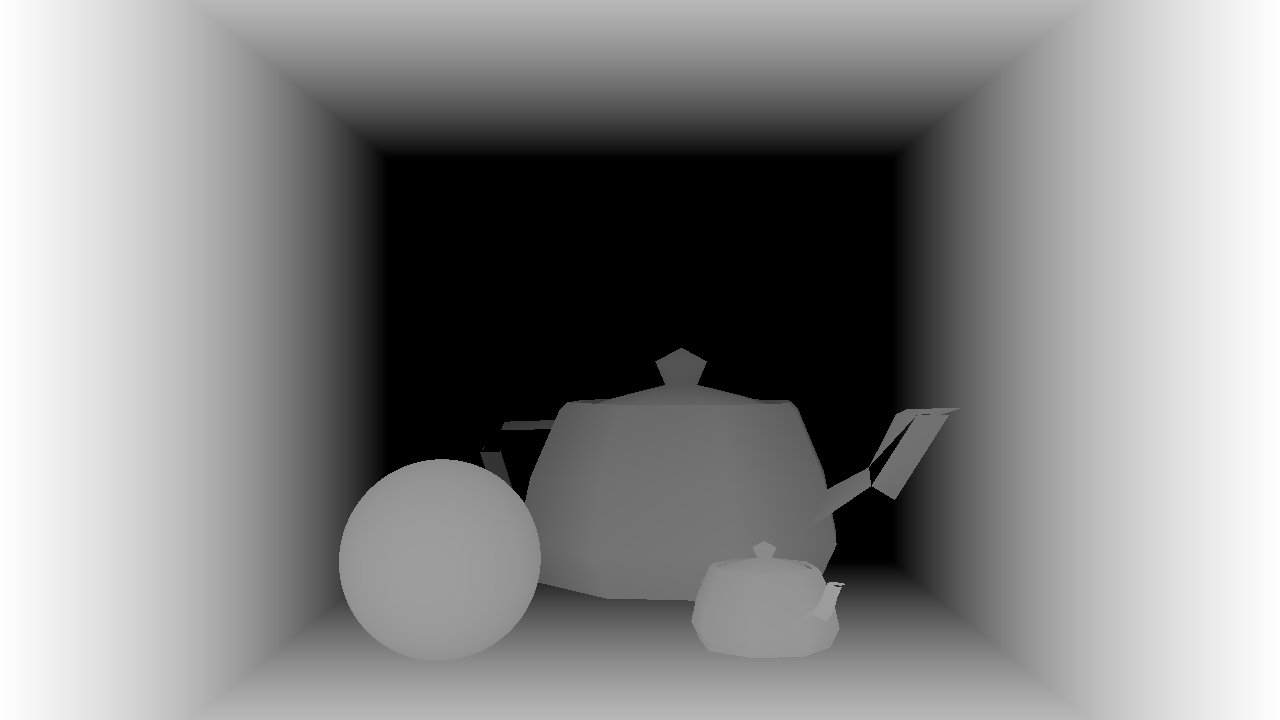
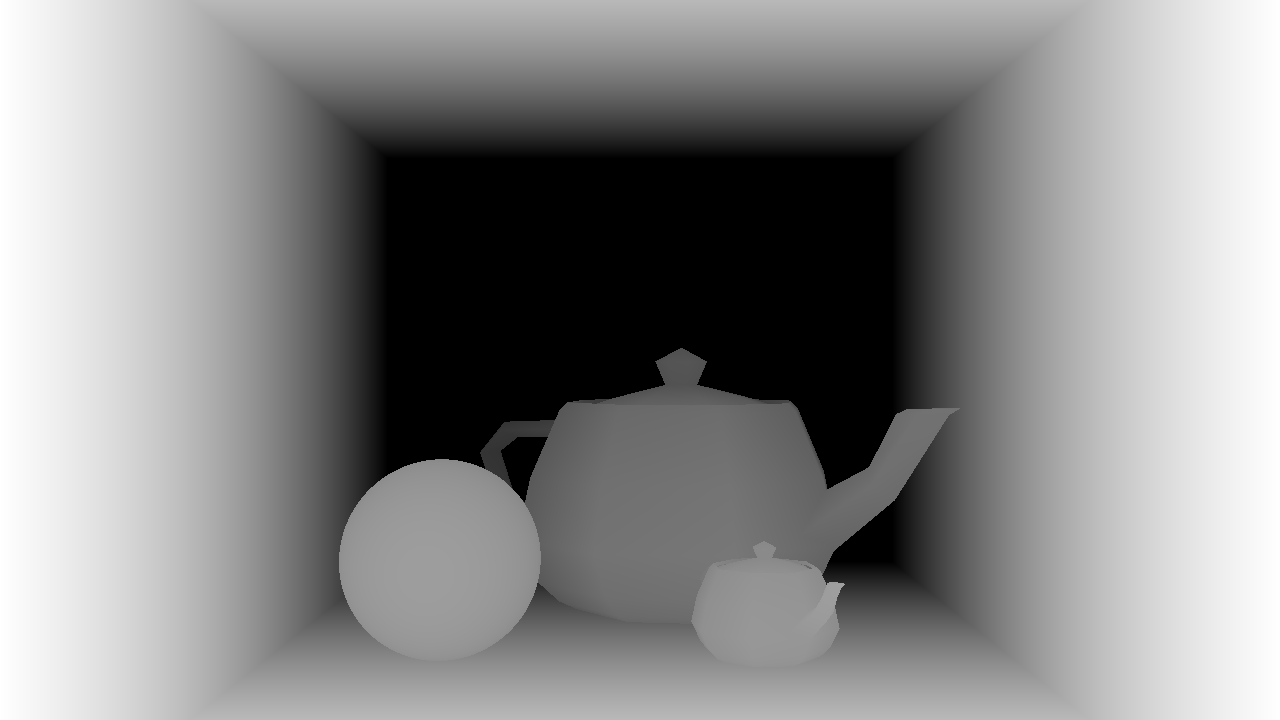
Started benchmarking

diff --git a/src/xmlload.cpp b/src/xmlload.cpp
@@ -156,14 +156,14 @@ void LoadNode( Node &parent, XMLElement *element, int level, ObjFileList &objLis
     char const *name = element->Attribute("name");
     node->SetName(name);
     PrintIndent(level);
-    printf("object [");
-    if ( name ) printf("%s",name);
-    printf("]");
+    //printf("object [");
+    //if ( name ) printf("%s",name);
+    //printf("]");
  
     // material
     char const *mtlName = element->Attribute("material");
     if ( mtlName ) {
-        printf(" <%s>", mtlName);
+        //printf(" <%s>", mtlName);
         node->SetMaterial( (Material*)mtlName ); // temporarily set the material pointer to a string of the material name
     }
  
@@ -172,17 +172,17 @@ void LoadNode( Node &parent, XMLElement *element, int level, ObjFileList &objLis
     if ( type ) {
         if ( StrICmp(type,"sphere") ) {
             node->SetNodeObj( &theSphere );
-            printf(" - Sphere");
+            //printf(" - Sphere");
         } else if ( StrICmp(type,"plane") ) {
             node->SetNodeObj( &thePlane );
-            printf(" - Plane");
+            //printf(" - Plane");
         } else if ( StrICmp(type,"obj") ) {
-            printf(" - OBJ");
+            //printf(" - OBJ");
             Object *obj = objList.Find(name);
             if ( obj == nullptr ) { // object is not on the list, so we should load it now
                 TriObj *tobj = new TriObj;
                 if ( ! tobj->Load( name ) ) {
-                    printf(" -- ERROR: Cannot load file \"%s.\"", name);
+                    //printf(" -- ERROR: Cannot load file \"%s.\"", name);
                     delete tobj;
                 } else {
                     objList.Append(tobj,name);  // add to the list
@@ -191,12 +191,12 @@ void LoadNode( Node &parent, XMLElement *element, int level, ObjFileList &objLis
             }
             node->SetNodeObj( obj );
         } else {
-            printf(" - UNKNOWN TYPE");
+            //printf(" - UNKNOWN TYPE");
         }
     }
  
  
-    printf("\n");
+    //printf("\n");
  
  
     for ( XMLElement *child = element->FirstChildElement(); child!=nullptr; child = child->NextSiblingElement() ) {
@@ -218,7 +218,7 @@ void LoadTransform( Transformation &trans, XMLElement *element, int level )
             ReadVector( child, s );
             trans.Scale(s.x,s.y,s.z);
             PrintIndent(level);
-            printf("   scale %f %f %f\n",s.x,s.y,s.z);
+            //printf("   scale %f %f %f\n",s.x,s.y,s.z);
         } else if ( StrICmp( child->Value(), "rotate" ) ) {
             Vec3f s(0,0,0);
             ReadVector( child, s );
@@ -227,13 +227,13 @@ void LoadTransform( Transformation &trans, XMLElement *element, int level )
             ReadFloat(child,a,"angle");
             trans.Rotate(s,a);
             PrintIndent(level);
-            printf("   rotate %f degrees around %f %f %f\n", a, s.x, s.y, s.z);
+            //printf("   rotate %f degrees around %f %f %f\n", a, s.x, s.y, s.z);
         } else if ( StrICmp( child->Value(), "translate" ) ) {
             Vec3f t(0,0,0);
             ReadVector(child,t);
             trans.Translate(t);
             PrintIndent(level);
-            printf("   translate %f %f %f\n",t.x,t.y,t.z);
+            //printf("   translate %f %f %f\n",t.x,t.y,t.z);
         }
     }
 }
@@ -246,9 +246,9 @@ void LoadMaterial( MaterialList &materials, XMLElement *element )
  
     // name
     char const *name = element->Attribute("name");
-    printf("Material [");
-    if ( name ) printf("%s",name);
-    printf("]");
+    //printf("Material [");
+    //if ( name ) printf("%s",name);
+    //printf("]");
  
     auto loadPhongBlinn = [&element]( MtlBasePhongBlinn *m )
     {
@@ -258,29 +258,29 @@ void LoadMaterial( MaterialList &materials, XMLElement *element )
             if ( StrICmp( child->Value(), "diffuse" ) ) {
                 ReadColor( child, c );
                 m->SetDiffuse(c);
-                printf("   diffuse %f %f %f\n",c.r,c.g,c.b);
+                //printf("   diffuse %f %f %f\n",c.r,c.g,c.b);
             } else if ( StrICmp( child->Value(), "specular" ) ) {
                 ReadColor( child, c );
                 m->SetSpecular(c);
-                printf("   specular %f %f %f\n",c.r,c.g,c.b);
+                //printf("   specular %f %f %f\n",c.r,c.g,c.b);
             } else if ( StrICmp( child->Value(), "glossiness" ) ) {
                 ReadFloat( child, f );
                 m->SetGlossiness(f);
-                printf("   glossiness %f\n",f);
+                //printf("   glossiness %f\n",f);
             } else if ( StrICmp( child->Value(), "reflection" ) ) {
                 ReadColor( child, c );
                 m->SetReflection(c);
-                printf("   reflection %f %f %f\n",c.r,c.g,c.b);
+                //printf("   reflection %f %f %f\n",c.r,c.g,c.b);
             } else if ( StrICmp( child->Value(), "refraction" ) ) {
                 ReadColor( child, c );
                 m->SetRefraction(c);
                 ReadFloat( child, f, "index" );
                 m->SetIOR(f);
-                printf("   refraction %f %f %f (ior: %f)\n",c.r,c.g,c.b,f);
+                //printf("   refraction %f %f %f (ior: %f)\n",c.r,c.g,c.b,f);
             } else if ( StrICmp( child->Value(), "absorption" ) ) {
                 ReadColor( child, c );
                 m->SetAbsorption(c);
-                printf("   absorption %f %f %f\n",c.r,c.g,c.b);
+                //printf("   absorption %f %f %f\n",c.r,c.g,c.b);
             }
         }
         return m;
@@ -293,10 +293,10 @@ void LoadMaterial( MaterialList &materials, XMLElement *element )
         //    printf(" - Phong\n");
         //    mtl = loadPhongBlinn( new MtlPhong() ); }
         if ( StrICmp(type,"blinn") ) {
-            printf(" - Blinn\n");
+            //printf(" - Blinn\n");
             mtl = loadPhongBlinn( new MtlBlinn() );
         } else if ( StrICmp(type,"microfacet") ) {
-            printf(" - Microfacet\n");
+            //printf(" - Microfacet\n");
             MtlMicrofacet *m = new MtlMicrofacet();
             mtl = m;
             for ( XMLElement *child = element->FirstChildElement(); child!=nullptr; child = child->NextSiblingElement() ) {
@@ -305,31 +305,31 @@ void LoadMaterial( MaterialList &materials, XMLElement *element )
                 if ( StrICmp( child->Value(), "color" ) ) {
                     ReadColor( child, c );
                     m->SetBaseColor(c);
-                    printf("   color %f %f %f\n",c.r,c.g,c.b);
+                    //printf("   color %f %f %f\n",c.r,c.g,c.b);
                 } else if ( StrICmp( child->Value(), "roughness" ) ) {
                     ReadFloat( child, f );
                     m->SetRoughness(f);
-                    printf("   roughness %f\n",f);
+                    //printf("   roughness %f\n",f);
                 } else if ( StrICmp( child->Value(), "metallic" ) ) {
                     ReadFloat( child, f );
                     m->SetMetallic(f);
-                    printf("   metallic %f\n",f);
+                    //printf("   metallic %f\n",f);
                 } else if ( StrICmp( child->Value(), "ior" ) ) {
                     ReadFloat( child, f );
                     m->SetIOR(f);
-                    printf("   ior %f\n",f);
+                    //printf("   ior %f\n",f);
                 } else if ( StrICmp( child->Value(), "transmittance" ) ) {
                     ReadColor( child, c );
                     m->SetTransmittance(c);
-                    printf("   transmittance %f %f %f\n",c.r,c.g,c.b);
+                    //printf("   transmittance %f %f %f\n",c.r,c.g,c.b);
                 } else if ( StrICmp( child->Value(), "absorption" ) ) {
                     ReadColor( child, c );
                     m->SetAbsorption(c);
-                    printf("   absorption %f %f %f\n",c.r,c.g,c.b);
+                    //printf("   absorption %f %f %f\n",c.r,c.g,c.b);
                 }
             }
         } else {
-            printf(" - UNKNOWN\n");
+            //printf(" - UNKNOWN\n");
         }
     }
  
@@ -347,15 +347,15 @@ void LoadLight( LightList &lights, XMLElement *element )
  
     // name
     char const *name = element->Attribute("name");
-    printf("Light [");
-    if ( name ) printf("%s",name);
-    printf("]");
+    //printf("Light [");
+    //if ( name ) printf("%s",name);
+    //printf("]");
  
     // type
     char const *type = element->Attribute("type");
     if ( type ) {
         if ( StrICmp(type,"ambient") ) {
-            printf(" - Ambient\n");
+            //printf(" - Ambient\n");
             AmbientLight *l = new AmbientLight();
             light = l;
             for ( XMLElement *child = element->FirstChildElement(); child!=nullptr; child = child->NextSiblingElement() ) {
@@ -363,11 +363,11 @@ void LoadLight( LightList &lights, XMLElement *element )
                     Color c(1,1,1);
                     ReadColor( child, c );
                     l->SetIntensity(c);
-                    printf("   intensity %f %f %f\n",c.r,c.g,c.b);
+                    //printf("   intensity %f %f %f\n",c.r,c.g,c.b);
                 }
             }
         } else if ( StrICmp(type,"direct") ) {
-            printf(" - Direct\n");
+            //printf(" - Direct\n");
             DirectLight *l = new DirectLight();
             light = l;
             for ( XMLElement *child = element->FirstChildElement(); child!=nullptr; child = child->NextSiblingElement() ) {
@@ -375,16 +375,16 @@ void LoadLight( LightList &lights, XMLElement *element )
                     Color c(1,1,1);
                     ReadColor( child, c );
                     l->SetIntensity(c);
-                    printf("   intensity %f %f %f\n",c.r,c.g,c.b);
+                    //printf("   intensity %f %f %f\n",c.r,c.g,c.b);
                 } else if ( StrICmp( child->Value(), "direction" ) ) {
                     Vec3f v(1,1,1);
                     ReadVector( child, v );
                     l->SetDirection(v);
-                    printf("   direction %f %f %f\n",v.x,v.y,v.z);
+                    //printf("   direction %f %f %f\n",v.x,v.y,v.z);
                 }
             }
         } else if ( StrICmp(type,"point") ) {
-            printf(" - Point\n");
+            //printf(" - Point\n");
             PointLight *l = new PointLight();
             light = l;
             for ( XMLElement *child = element->FirstChildElement(); child!=nullptr; child = child->NextSiblingElement() ) {
@@ -392,12 +392,12 @@ void LoadLight( LightList &lights, XMLElement *element )
                     Color c(1,1,1);
                     ReadColor( child, c );
                     l->SetIntensity(c);
-                    printf("   intensity %f %f %f\n",c.r,c.g,c.b);
+                    //printf("   intensity %f %f %f\n",c.r,c.g,c.b);
                 } else if ( StrICmp( child->Value(), "position" ) ) {
                     Vec3f v(0,0,0);
                     ReadVector( child, v );
                     l->SetPosition(v);
-                    printf("   position %f %f %f\n",v.x,v.y,v.z);
+                    //printf("   position %f %f %f\n",v.x,v.y,v.z);
                 }
             }
         } else {

diff --git a/src/TriObj.cpp b/src/TriObj.cpp
@@ -70,14 +70,18 @@ bool TriObj::IntersectRay(const Ray& localRay, HitInfo& hitInfo, int hitSide) co
             x_2d = Vec2f{ x.x, x.y };
         }
 
-        doubleArea0 = (v2_2d - v1_2d) ^ (x_2d - v1_2d);
-        if (doubleArea0 < 0.0f) continue;
-        doubleArea1 = (v0_2d - v2_2d) ^ (x_2d - v2_2d);
-        if (doubleArea1 < 0.0f) continue;
-        doubleArea2 = (v1_2d - v0_2d) ^ (x_2d - v0_2d);
-        if (doubleArea2 < 0.0f) continue;
-        doubleAreaTriangle = (v1_2d - v0_2d) ^ (v2_2d - v0_2d);
+        const float tempDoubleArea0{ (v2_2d - v1_2d) ^ (x_2d - v1_2d) };
+        const float tempDoubleArea1{ (v0_2d - v2_2d) ^ (x_2d - v2_2d) };
+        const float tempDoubleArea2{ (v1_2d - v0_2d) ^ (x_2d - v0_2d) };
+        
+        // Check if the signs are inconsistent. If so, the point is outside. This is because 2D projection can ruin winding order
+        if (!((tempDoubleArea0 >= 0 && tempDoubleArea1 >= 0 && tempDoubleArea2 >= 0) || (tempDoubleArea0 <= 0 && tempDoubleArea1 <= 0 && tempDoubleArea2 <= 0)))
+            continue;
 
+        doubleAreaTriangle = (v1_2d - v0_2d) ^ (v2_2d - v0_2d);
+        doubleArea0 = tempDoubleArea0;
+        doubleArea1 = tempDoubleArea1;
+        doubleArea2 = tempDoubleArea2;
         closestT = t;
         closestX = x;
         closestFaceID = i;
@@ -118,7 +122,7 @@ bool TriObj::IntersectShadowRay( Ray const &localRay, float t_max ) const
         const float h{ -v0 % normal };
 
         const float t{ -(localRay.p % normal + h) / (normal % localRay.dir) };
-        if (t < 0.0f && t < t_max) continue;
+        if (t < 0.0f || t > t_max) continue;
         const Vec3f x{ localRay.p + localRay.dir * t };
 
         const float normalXLen{ abs(normal.x) };
@@ -152,9 +156,13 @@ bool TriObj::IntersectShadowRay( Ray const &localRay, float t_max ) const
             x_2d = Vec2f{ x.x, x.y };
         }
 
-        if (((v2_2d - v1_2d) ^ (x_2d - v1_2d)) < 0.0f) continue;
-        if (((v0_2d - v2_2d) ^ (x_2d - v2_2d)) < 0.0f) continue;
-        if (((v1_2d - v0_2d) ^ (x_2d - v0_2d)) < 0.0f) continue;
+        const float doubleArea0 = (v2_2d - v1_2d) ^ (x_2d - v1_2d);
+        const float doubleArea1 = (v0_2d - v2_2d) ^ (x_2d - v2_2d);
+        const float doubleArea2 = (v1_2d - v0_2d) ^ (x_2d - v0_2d);
+
+        // Check if the signs are inconsistent. If so, the point is outside. This is because 2D projection can ruin winding order
+        if (!((doubleArea0 >= 0 && doubleArea1 >= 0 && doubleArea2 >= 0) || (doubleArea0 <= 0 && doubleArea1 <= 0 && doubleArea2 <= 0)))
+            continue;
 
         return true;
     }

diff --git a/src/main.cpp b/src/main.cpp
@@ -5,6 +5,7 @@
 
 #include <iostream>
 #include <cmath>
+#include <chrono>
 
 int LoadScene( RenderScene &scene, char const *filename );
 void ShowViewport( RenderScene *scene );
@@ -86,6 +87,7 @@ int main()
 
     Color24* pixels{ scene.renderImage.GetPixels() };
     float* depthValues{ scene.renderImage.GetZBuffer() };
+    const auto start{ std::chrono::high_resolution_clock::now() };
     for (int i{ 0 }; i < scene.camera.imgWidth; ++i)
     {
         for (int j{ 0 }; j < scene.camera.imgHeight; ++j)
@@ -105,6 +107,10 @@ int main()
             depthValues[j * scene.camera.imgWidth + i] = hitInfo.z;
         }
     }
+    const auto end{ std::chrono::high_resolution_clock::now() };
+    const auto durationMilli{ std::chrono::duration_cast<std::chrono::milliseconds>(end - start) };
+    const auto durationSeconds{ std::chrono::duration_cast<std::chrono::seconds>(end - start) };
+    std::cout << "\nTime: " << durationSeconds << " : " << durationMilli % 1000 << '\n';
 
     scene.renderImage.ComputeZBufferImage();
     scene.renderImage.SaveZImage("../zbuffer.png");
